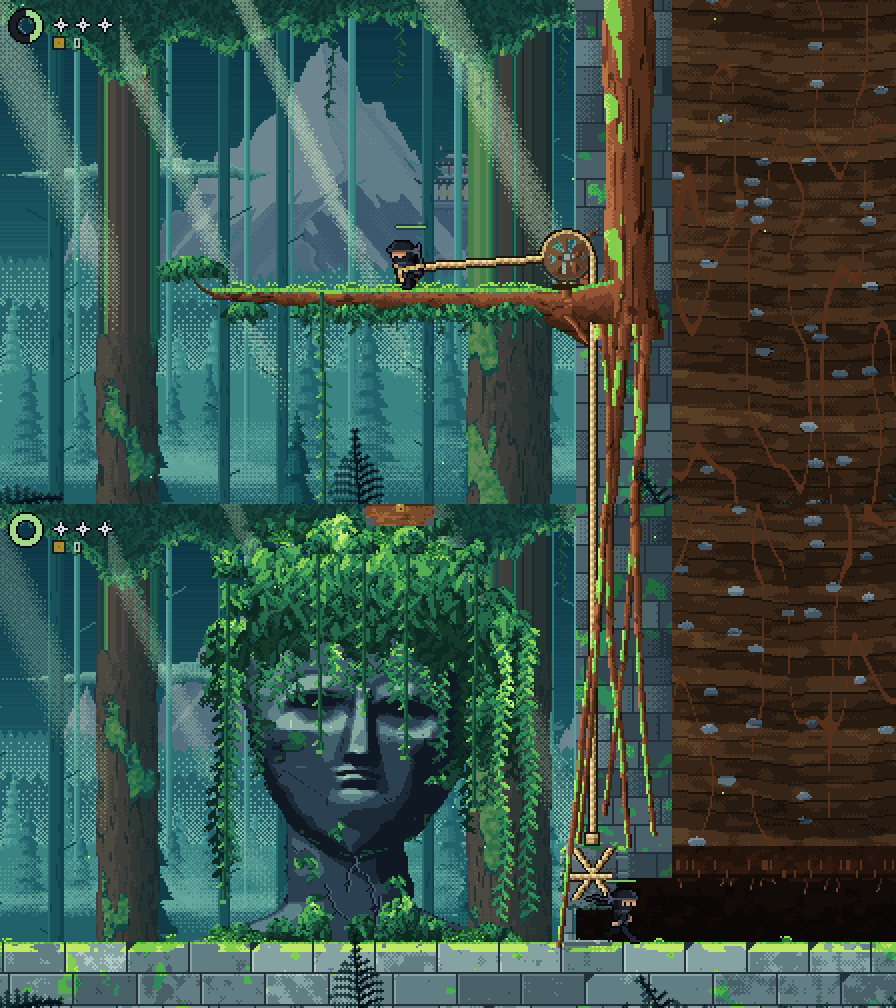
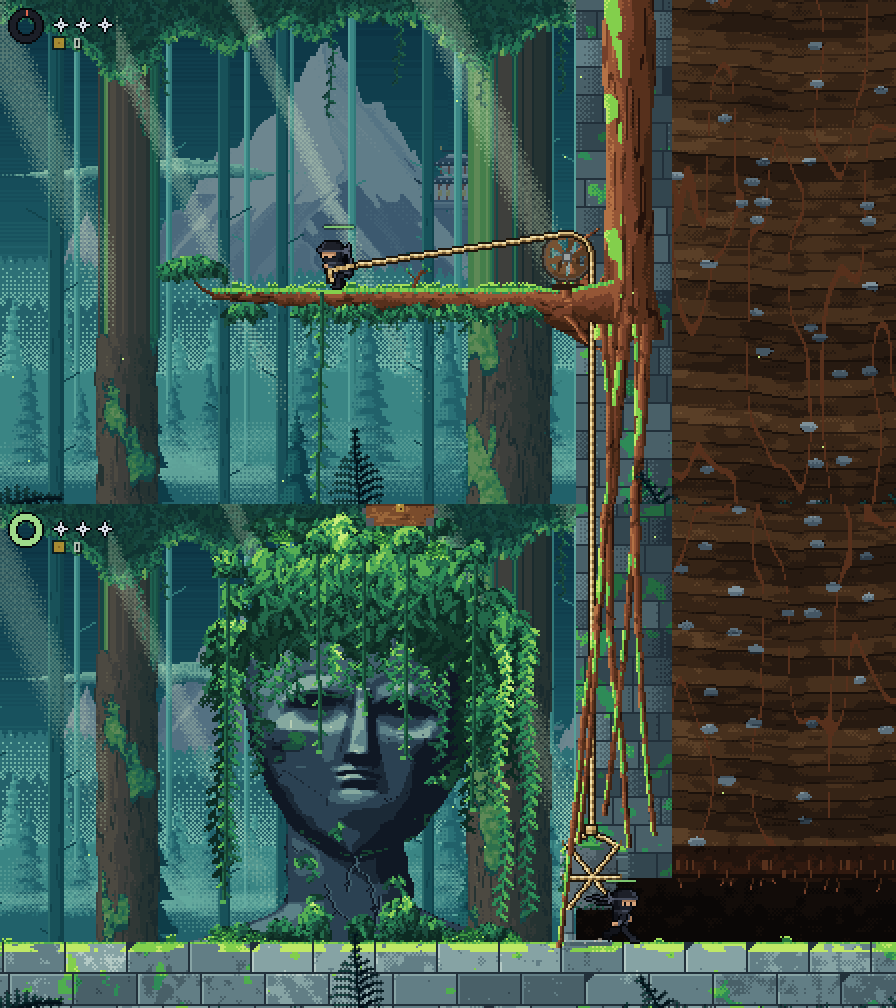
Statue : corde tangente à la poulie, bloc ceinturé, épaisseur intermédiaire
- la corde épouse la gorge de la poulie et la quitte au point de tangence,
  tendue en ligne droite jusqu'à l'épaule de KAGE (ou jusqu'à la branche)
- le bloc est ceinturé : croix et sangle qui débordent de ses arêtes, deux
  brins des coins du haut jusqu'au nœud, corde à l'aplomb de la roue
- corde de 2 px cernée (4 px en tout), entre les deux premières versions

Claude-Session: https://claude.ai/code/session_01A2iwx5ikARHMwBkhmiw1Tw

diff --git a/docs/carte-mentale/index.html b/docs/carte-mentale/index.html
@@ -327,7 +327,7 @@ const BRANCHES = [
     files: ['docs/MONDE.md'], links: [['Carte du monde', 'docs/monde/carte_du_monde.png']] },
   { id: 'monde-ch1', t: '1 · Le Potager', s: 'fait', d: 'Jouable et entièrement peint',
     txt: "Jour, champs, paille, montagnes au loin. 9 zones, 9 lanternes, le marchand, puis le mini-boss KARASU-KASHI et la porte du temple. Voir la branche « Chapitre 1 ».", files: ['src/game/chapters/potager.js'], see: ['pot-z01'] },
-  { id: 'monde-ch2', t: '2 · La Forêt', s: 'encours', d: 'Première version complète : 12 zones, peintes, sonorisées ; retouches en cours', txt: "Brief de Raph (10 novembre 2026) : une forêt dense et mystérieuse en 12 zones, plus longue et plus riche que le Potager, sans ennemis pour l'instant. De la lisière ensoleillée à la lisière crépusculaire : fougères et racines géantes (saut mural), eaux miroirs (dash), piliers qui s'effondrent (sprint), ascension dans les pins, torrent et troncs flottants, canopée, souterrain bioluminescent, la statue oubliée, une tête de femme penchée vers le sol, le regard baissé dans l'ombre de ses arcades (un gros bloc de pierre ficelé d'une corde en croix ferme le tunnel ; on grimpe aux lianes de sa chevelure — leur départ caché dans le feuillage — jusqu'à sa tête, d'où seulement on attrape une liane qui mène à une grande branche, sortie d'un arbre agrippé au pilier ; au bout, une énorme poulie : on saisit la corde (↑, ou le bouton de saut sur téléphone), on la tire le long de la branche — KAGE peine, arc-bouté (animation rope_pull), lentement et par saccades, il souffle par moments, l'image tremble un peu sous l'effort, et chaque seconde de tirage lui coûte un quart de son énergie : à bout de souffle, il tient la corde sans pouvoir tirer et reprend haleine — et le saut la lâche ; tirée au-delà d'un rameau, elle s'y emmêle au retour et le bloc reste levé d'une case : on passe en glissade ; lâchée trop tôt, le bloc retombe ; la corde, en chanvre clair torsadé, épaisse et cernée de sombre, ressort sur l'écorce et la pierre ; elle clignote comme un coffre, des chevrons dorés montrent où tirer ; sauvegardé), lianes balancier, descente devant un éboulis. Plan complet : docs/FORET.md. Retouches de Raph (novembre 2026) : un grand pont suspendu moussu dans la canopée (planches qui ploient, oscillent, et dont certaines lâchent ; deux cordes de chaque côté), de l'eau au sol entre les lianes (chaque arbre de la canopée est posé à la main, les pieds sur la terre : les îlots suivent les arbres, et rien ne pousse au-dessus de l'eau ; les deux grandes eaux font 14 cases, plus que sprint + saut + dash ; les planches tombées ne reviennent pas ; planches de 18 px séparées de 6 px : on marche sur les jours, mais le trou d'une planche tombée (30 px) ne se passe qu'en sautant ; la grande branche de l'arbre du nid rompt sous KAGE et revient à la réapparition ; le coffre du nid est sur une branche à droite du tronc), une eau profonde dont on ne voit jamais le fond, une gorge peinte sous l'allée des piliers (falaise contrastée et végétalisée, sans trame), des galeries de terre sous une butte à souches dans l'ascension (zone 5 : un coffre, un fossé mortel, un avant-goût du souterrain), et le torrent (zone 6) plus long (quatre bras) aux rondins tous différents — 3 à 5 cases, 10 à 16 px de diamètre, ombrés en cylindre, écorce fendue, nœuds, moignons de branches cassées, un bout scié (ses cernes) et l'autre cassé, mousse par plaques —, des rochers pointus battus d'écume dans le lit, des embruns, des brindilles emportées (on ne s'y pose pas), la caverne aux perles (zone 8) refaite plus profonde et deux fois plus longue (racines de chêne, arbres à perles lumineuses, papillons, clairière au grand arbre et son oasis souterraine, sortie en bouche de caverne) ; sous terre, plus de « fonds de creux » peints case par case : ces carrés presque noirs ressortaient en rectangles dans le halo de KAGE (world.js, niche). Des détours pour l'aventure (12 novembre 2026, demande de Raph) : la cabane du guetteur dans un vieux chêne (zone 1), l'arbre aux cavités et ses creux dans l'écorce (zone 2 ; branches de plus en plus longues vers le haut, avec leurs exceptions — une grande branche basse de 15 cases qui rattrape toute chute, même en sprint ; un nœud creux traverse le tronc vers deux branches au-dessus de la racine géante ; branches effilées, rameaux et touffes : oldBough), l'arche de racines qui porte un arbre sacré et un petit sanctuaire au-dessus du sentier (zone 3 ; la motte repose sur six racines-piliers évasées au sol, qui s'affinent en montant et l'enserrent par les flancs), le belvédère au sommet du grand cèdre du couchant (zone 12) : chacun son coffre, et on en redescend toujours sans dégâts. 32 tests de faisabilité (tests/foret.cjs, dans npm test) : chaque passage se franchit et la mécanique voulue est nécessaire (sans dash, on tombe à l'eau ou on manque la corniche ; sans sprint, le pont emporte KAGE ; immobile, l'éboulis le rattrape). On y entre en passant la porte du temple : fondu au noir, la carte « Fin de l'initiation — Chapitre 2 — La Forêt — Le voyage commence », puis la carte s'efface sur la lisière ; la partie continue (ryō, skins, corbeau vaincu suivent KAGE ; « Continuer » reprend dans le bon chapitre). On l'aperçoit déjà par la porte du temple, à la fin du Potager.", files: ['docs/FORET.md', 'docs/MONDE.md', 'src/game/chapters/foret.js', 'src/game/foret/mechanics.js', 'src/game/foret/index.js', 'src/game/foret/backdrop.js', 'src/game/foret/world.js', 'src/game/foret/props.js', 'src/game/foret/live.js', 'assets/music/foret.mp3', 'tests/foret.cjs', 'tests/foret_pilotes.js', 'src/game/foret/palette.js', 'src/game/foret/layers.js', 'src/game/foret/statue.js', 'tools/foret_planche.mjs', 'src/game/potager/temple.js'], links: [['Les 12 zones peintes', 'docs/foret/apercu_zones.png'], ['Les détours', 'docs/foret/detours.png'], ['La carte du chapitre', 'docs/foret/carte_chapitre.png'], ['Planche d\'ambiance', 'docs/foret/planche_ambiance.png'], ['Planche de la statue', 'docs/foret/planche_statue.png'], ['KAGE sur une liane', 'docs/foret/planche_kage_liane.png']], see: ['pot-porte'] },
+  { id: 'monde-ch2', t: '2 · La Forêt', s: 'encours', d: 'Première version complète : 12 zones, peintes, sonorisées ; retouches en cours', txt: "Brief de Raph (10 novembre 2026) : une forêt dense et mystérieuse en 12 zones, plus longue et plus riche que le Potager, sans ennemis pour l'instant. De la lisière ensoleillée à la lisière crépusculaire : fougères et racines géantes (saut mural), eaux miroirs (dash), piliers qui s'effondrent (sprint), ascension dans les pins, torrent et troncs flottants, canopée, souterrain bioluminescent, la statue oubliée, une tête de femme penchée vers le sol, le regard baissé dans l'ombre de ses arcades (un gros bloc de pierre ficelé d'une corde en croix ferme le tunnel ; on grimpe aux lianes de sa chevelure — leur départ caché dans le feuillage — jusqu'à sa tête, d'où seulement on attrape une liane qui mène à une grande branche, sortie d'un arbre agrippé au pilier ; au bout, une énorme poulie : on saisit la corde (↑, ou le bouton de saut sur téléphone), on la tire le long de la branche — KAGE peine, arc-bouté (animation rope_pull), lentement et par saccades, il souffle par moments, l'image tremble un peu sous l'effort, et chaque seconde de tirage lui coûte un quart de son énergie : à bout de souffle, il tient la corde sans pouvoir tirer et reprend haleine — et le saut la lâche ; tirée au-delà d'un rameau, elle s'y emmêle au retour et le bloc reste levé d'une case : on passe en glissade ; lâchée trop tôt, le bloc retombe ; la corde, en chanvre clair torsadé, épaisse et cernée de sombre, ressort sur l'écorce et la pierre ; elle épouse la gorge de la poulie et la quitte au point de tangence, tendue en ligne droite jusqu'à l'épaule de KAGE ; sur le bloc, une croix et une sangle qui débordent de ses arêtes, et deux brins des coins du haut jusqu'au nœud ; elle clignote comme un coffre, des chevrons dorés montrent où tirer ; sauvegardé), lianes balancier, descente devant un éboulis. Plan complet : docs/FORET.md. Retouches de Raph (novembre 2026) : un grand pont suspendu moussu dans la canopée (planches qui ploient, oscillent, et dont certaines lâchent ; deux cordes de chaque côté), de l'eau au sol entre les lianes (chaque arbre de la canopée est posé à la main, les pieds sur la terre : les îlots suivent les arbres, et rien ne pousse au-dessus de l'eau ; les deux grandes eaux font 14 cases, plus que sprint + saut + dash ; les planches tombées ne reviennent pas ; planches de 18 px séparées de 6 px : on marche sur les jours, mais le trou d'une planche tombée (30 px) ne se passe qu'en sautant ; la grande branche de l'arbre du nid rompt sous KAGE et revient à la réapparition ; le coffre du nid est sur une branche à droite du tronc), une eau profonde dont on ne voit jamais le fond, une gorge peinte sous l'allée des piliers (falaise contrastée et végétalisée, sans trame), des galeries de terre sous une butte à souches dans l'ascension (zone 5 : un coffre, un fossé mortel, un avant-goût du souterrain), et le torrent (zone 6) plus long (quatre bras) aux rondins tous différents — 3 à 5 cases, 10 à 16 px de diamètre, ombrés en cylindre, écorce fendue, nœuds, moignons de branches cassées, un bout scié (ses cernes) et l'autre cassé, mousse par plaques —, des rochers pointus battus d'écume dans le lit, des embruns, des brindilles emportées (on ne s'y pose pas), la caverne aux perles (zone 8) refaite plus profonde et deux fois plus longue (racines de chêne, arbres à perles lumineuses, papillons, clairière au grand arbre et son oasis souterraine, sortie en bouche de caverne) ; sous terre, plus de « fonds de creux » peints case par case : ces carrés presque noirs ressortaient en rectangles dans le halo de KAGE (world.js, niche). Des détours pour l'aventure (12 novembre 2026, demande de Raph) : la cabane du guetteur dans un vieux chêne (zone 1), l'arbre aux cavités et ses creux dans l'écorce (zone 2 ; branches de plus en plus longues vers le haut, avec leurs exceptions — une grande branche basse de 15 cases qui rattrape toute chute, même en sprint ; un nœud creux traverse le tronc vers deux branches au-dessus de la racine géante ; branches effilées, rameaux et touffes : oldBough), l'arche de racines qui porte un arbre sacré et un petit sanctuaire au-dessus du sentier (zone 3 ; la motte repose sur six racines-piliers évasées au sol, qui s'affinent en montant et l'enserrent par les flancs), le belvédère au sommet du grand cèdre du couchant (zone 12) : chacun son coffre, et on en redescend toujours sans dégâts. 32 tests de faisabilité (tests/foret.cjs, dans npm test) : chaque passage se franchit et la mécanique voulue est nécessaire (sans dash, on tombe à l'eau ou on manque la corniche ; sans sprint, le pont emporte KAGE ; immobile, l'éboulis le rattrape). On y entre en passant la porte du temple : fondu au noir, la carte « Fin de l'initiation — Chapitre 2 — La Forêt — Le voyage commence », puis la carte s'efface sur la lisière ; la partie continue (ryō, skins, corbeau vaincu suivent KAGE ; « Continuer » reprend dans le bon chapitre). On l'aperçoit déjà par la porte du temple, à la fin du Potager.", files: ['docs/FORET.md', 'docs/MONDE.md', 'src/game/chapters/foret.js', 'src/game/foret/mechanics.js', 'src/game/foret/index.js', 'src/game/foret/backdrop.js', 'src/game/foret/world.js', 'src/game/foret/props.js', 'src/game/foret/live.js', 'assets/music/foret.mp3', 'tests/foret.cjs', 'tests/foret_pilotes.js', 'src/game/foret/palette.js', 'src/game/foret/layers.js', 'src/game/foret/statue.js', 'tools/foret_planche.mjs', 'src/game/potager/temple.js'], links: [['Les 12 zones peintes', 'docs/foret/apercu_zones.png'], ['Les détours', 'docs/foret/detours.png'], ['La carte du chapitre', 'docs/foret/carte_chapitre.png'], ['Planche d\'ambiance', 'docs/foret/planche_ambiance.png'], ['Planche de la statue', 'docs/foret/planche_statue.png'], ['KAGE sur une liane', 'docs/foret/planche_kage_liane.png']], see: ['pot-porte'] },
   { id: 'monde-ch3', t: '3 · La forêt des grands arbres', s: 'afaire', d: 'Troncs immenses, brume', txt: "Ennemi pressenti : Kage-mane. Marchand dans une clairière.", see: ['ennemi-kagemane'] },
   { id: 'monde-ch4', t: '4 · Le village des basses montagnes', s: 'afaire', d: 'Toits, lanternes, marché', txt: "Ennemi pressenti : Chōchin. Marchand au marché.", see: ['ennemi-chochin'] },
   { id: 'monde-ch5', t: '5 · Les hautes montagnes', s: 'afaire', d: 'Vent, neige, glace, ascension', txt: "Ennemi pressenti : un corbeau messager. Marchand dans un refuge.", see: ['ennemi-messager'] },

diff --git a/src/game/foret/live.js b/src/game/foret/live.js
@@ -217,7 +217,7 @@ function foreStrip(mood) {
 const ROPE_COL = ['#1c140b', '#6e5430', '#b8955a', '#dcc184', '#f3e3b0'];
 
 /**
- * Trace des brins de corde épais (3 px) et torsadés : d'abord tous les contours, puis les corps,
+ * Trace des brins de corde épais (2 px, cernés : 4 px en tout) et torsadés : d'abord tous les contours, puis les corps,
  * pour qu'un brin qui en touche un autre ne le coupe pas. Les torons sont des rayures en biais qui
  * défilent avec la corde (shift).
  */
@@ -230,12 +230,12 @@ function drawRopeStrands(ctx, strands, cam, vw, vh, shift) {
       if (x < -6 || x > vw + 6 || y < -6 || y > vh + 6) continue;
       if (pass === 0) {
         ctx.fillStyle = ROPE_COL[0];
-        if (flat) ctx.fillRect(x, y - 1, 1, 5); else ctx.fillRect(x - 1, y, 5, 1);
+        if (flat) ctx.fillRect(x, y - 1, 1, 4); else ctx.fillRect(x - 1, y, 4, 1);
         continue;
       }
-      for (let k = 0; k < 3; k++) {
+      for (let k = 0; k < 2; k++) {
         const t = ((i + k + shift) % 4 + 4) % 4;     // la torsade : rayures en biais
-        const c = k === 2 ? (t === 0 ? ROPE_COL[2] : ROPE_COL[1]) : k === 0 ? (t < 2 ? ROPE_COL[4] : ROPE_COL[3]) : (t === 1 || t === 2 ? ROPE_COL[3] : ROPE_COL[2]);
+        const c = k === 0 ? (t < 2 ? ROPE_COL[4] : ROPE_COL[3]) : (t === 1 || t === 2 ? ROPE_COL[2] : ROPE_COL[1]);
         ctx.fillStyle = c;
         if (flat) ctx.fillRect(x, y + k, 1, 1); else ctx.fillRect(x + k, y, 1, 1);
       }
@@ -906,10 +906,10 @@ export class ForetLive {
    * chevrons clignotent vers la gauche (« tirez par là »). Coincée, elle s'enroule sur le rameau.
    */
   drawRopeWorks(ctx, r, cam, vw, vh, time) {
-    const X = r.door * TILE, G = r.ground, cx = r.pulleyX, cy = r.branchY - 16, RAD = 13;
+    const X = r.door * TILE, G = r.ground, cx = r.pulleyX, cy = r.branchY - 16, RAD = 13, RR = RAD - 1;
     const ROPE = ROPE_COL;
     const P = this.level.player;
-    // la corde : chanvre clair et torsadé, trois pixels d'épaisseur cernés de sombre (elle ressort sur
+    // la corde : chanvre clair et torsadé, deux pixels d'épaisseur cernés de sombre (elle ressort sur
     // l'écorce et la pierre) ; chaque brin est mis de côté puis tracé en deux passes (contour, puis corps)
     const strands = [];
     const rope = (x0, y0, x1, y1) => strands.push([x0, y0, x1, y1]);
@@ -937,18 +937,24 @@ export class ForetLive {
     if (this.vis(bx - 4, by - 4, bw + 8, bh + 8, cam, vw, vh)) {
       const jit = r.state === 'held' && r.lift > 0 && r.lift < 30 ? R(Math.sin(time * 40) * 0.5) : 0;
       ctx.drawImage(this.block, R(bx - cam.x) + jit, R(by - cam.y));
-      // la corde en croix sur sa face, et le nœud en haut
-      rope(bx + 3, by + 3, bx + bw - 5, by + bh - 6); rope(bx + bw - 5, by + 3, bx + 3, by + bh - 6); rope(bx + 1, by + bh / 2 - 1, bx + bw - 4, by + bh / 2 - 1);
-      // la corde qui monte du bloc à la poulie (tangente au côté droit de la roue), puis le nœud par-dessus
-      rope(X + 7, by - 3, cx + RAD - 1, cy);
+      // la corde ceinture le bloc : une croix d'un coin à l'autre et une sangle au milieu, qui débordent
+      // de ses arêtes (elles passent derrière) ; deux brins remontent des coins du haut jusqu'au nœud
+      const b0 = bx + jit, b1 = bx + jit + bw - 1, ym = by + R(bh / 2), kxc = cx + RR, kyc = by - 6;
+      rope(b0, by + 1, b1, by + bh - 1); rope(b1, by + 1, b0, by + bh - 1); rope(b0 - 1, ym, b1 + 1, ym);
+      rope(kxc, kyc, b0 + 1, by); rope(kxc, kyc, b1 - 1, by);
+      // la corde qui monte du nœud à la poulie (elle tombe à l'aplomb du côté droit de la roue)
+      rope(kxc, kyc, kxc, cy);
       flush();
-      const kx = R(X + 4 - cam.x), ky = R(by - 5 - cam.y);
-      ctx.fillStyle = ROPE[0]; ctx.fillRect(kx, ky, 8, 7);
-      ctx.fillStyle = ROPE[2]; ctx.fillRect(kx + 1, ky + 1, 6, 5);
-      ctx.fillStyle = ROPE[3]; ctx.fillRect(kx + 1, ky + 1, 4, 2); ctx.fillRect(kx + 2, ky + 4, 3, 1);
-      ctx.fillStyle = ROPE[4]; ctx.fillRect(kx + 2, ky + 1, 2, 1);
-      ctx.fillStyle = ROPE[1]; ctx.fillRect(kx + 5, ky + 3, 2, 3);
-    } else rope(X + 7, by - 3, cx + RAD - 1, cy);
+      // là où la corde passe derrière le bloc : un brin d'ombre qui contourne l'arête
+      ctx.fillStyle = ROPE[1];
+      for (const [qx, qy] of [[b0 - 2, by], [b1 + 2, by], [b0 - 2, by + bh - 2], [b1 + 2, by + bh - 2], [b0 - 2, ym], [b1 + 2, ym]]) ctx.fillRect(R(qx - cam.x), R(qy - cam.y) - 1, 1, 3);
+      const kx = R(kxc - 4 - cam.x), ky = R(kyc - 3 - cam.y);
+      ctx.fillStyle = ROPE[0]; ctx.fillRect(kx + 1, ky, 7, 6);
+      ctx.fillStyle = ROPE[2]; ctx.fillRect(kx + 2, ky + 1, 5, 4);
+      ctx.fillStyle = ROPE[3]; ctx.fillRect(kx + 2, ky + 1, 3, 2); ctx.fillRect(kx + 3, ky + 4, 2, 1);
+      ctx.fillStyle = ROPE[4]; ctx.fillRect(kx + 3, ky + 1, 1, 1);
+      ctx.fillStyle = ROPE[1]; ctx.fillRect(kx + 5, ky + 3, 2, 2);
+    } else rope(cx + RR, by - 6, cx + RR, cy);
     // la poulie : le chevalet sur la branche, la roue qui tourne avec la corde
     if (this.vis(cx - 24, cy - 24, 48, 48, cam, vw, vh)) {
       const WOOD = ['#2a1a10', '#3f2a1a', '#5a3d25', '#765233', '#946a43'];
@@ -969,25 +975,28 @@ export class ForetLive {
         }
         if (c) { ctx.fillStyle = c; ctx.fillRect(sx + x, sy + y, 1, 1); }
       }
-      // la corde passe dans la gorge, par-dessus
-      for (let a = 0; a <= Math.PI; a += 0.05) {
-        const ox = Math.cos(a), oy = -Math.sin(a);
-        for (let k = 0; k < 3; k++) {
-          ctx.fillStyle = k === 2 ? ROPE[0] : ((R(a * RAD) + k + R(r.pull)) >> 1) % 2 ? ROPE[3] : ROPE[2];
-          ctx.fillRect(R(sx + ox * (RAD - 1 + k * 0.9)), R(sy + oy * (RAD - 1 + k * 0.9)), 1, 1);
-        }
-      }
     }
-    // l'autre brin : de la poulie au bout de la corde (sur la branche), ou jusqu'à KAGE
-    const lx = cx - RAD, held = r.state === 'held' && P?.state === 'rope_pull';
+    // l'autre brin. La corde épouse la gorge de la roue depuis son côté droit, passe par-dessus, et la
+    // quitte au point de tangence vers sa cible (l'épaule de KAGE, ou la branche où elle repose) : de là,
+    // une ligne droite, bien tendue, sans angle. φ : angle sur la roue, 0 à droite, π/2 en haut, π à gauche.
+    const held = r.state === 'held' && P?.state === 'rope_pull';
+    const wrapTo = (tx, ty) => {
+      const dx = tx - cx, dy = cy - ty, d = Math.max(RR + 0.5, Math.hypot(dx, dy));
+      const th = (Math.atan2(dy, dx) + Math.PI * 2) % (Math.PI * 2);
+      const ft = Math.max(0.05, th - Math.acos(RR / d));          // la tangente du côté où la corde s'enroule
+      let px = cx + RR, py = cy;
+      for (let f = 0; f < ft;) { f = Math.min(ft, f + 1.4 / RR); const nx = cx + RR * Math.cos(f), ny = cy - RR * Math.sin(f); rope(px, py, nx, ny); px = nx; py = ny; }
+      rope(px, py, tx, ty);
+    };
     if (held) {
       const sh = this.ropePoint(P, 'shoulder');
-      rope(lx, cy, sh.x, sh.y);
+      wrapTo(sh.x, sh.y);
       flush();
     } else {
       const endX = r.state === 'caught' ? r.twig + 3 : r.end - r.pull;
-      rope(lx, cy, lx - 6, r.branchY - 2);
-      rope(lx - 6, r.branchY - 3, endX, r.branchY - 3);
+      const touch = Math.max(endX, cx - RAD - 10);                // là où elle se pose sur la branche
+      wrapTo(touch, r.branchY - 2);
+      if (endX < touch) rope(touch, r.branchY - 2, endX, r.branchY - 2);
       flush();
       if (r.state === 'caught') {
         // emmêlée dans le rameau : deux tours, et le bout qui pend

diff --git a/docs/FORET.md b/docs/FORET.md
@@ -176,7 +176,7 @@ Planches : `docs/foret/arbre_cavites.png`, `docs/foret/arche_racines_avant_apres
 - **zone 7, le pont** : planches de 18 px espacées de 6 (`FOREST.bridge.plankW`, `plankGap`) ; une planche cassée ne se franchit plus en sprint, il faut sauter (test dédié) ;
 - **zone 8, le souterrain** : plus de rectangles noirs derrière les décors au passage de KAGE (les « niches » sombres ne sont plus peintes sous la pénombre du souterrain : `niche()` dans `world.js`) ;
 - **zone 6, le torrent** : quatre bras (12, 16, 18, 20 cases), rochers entre eux (`river_rock`, décor où l'on ne se pose pas) ; troncs plus longs, de diamètres variés, peints en vrais cylindres (`logArt` : modelé, fissures, nœuds, bout scié aux cernes ou bout cassé, chicots de branches, mousse éparse, champignons), flottant plus haut ; écume, sillages, embruns, débris qui dérivent ;
-- **zone 9, la statue** : le visage n'est pas touché ; le départ des lianes de sa chevelure est caché dans le feuillage (touffes à leur sommet). **Nouveau mécanisme**, une grue du chapitre 1 inversée : un gros **bloc de granit ficelé d'une corde en croix** ferme le tunnel ; la corde monte, hors de l'image, jusqu'à une **énorme poulie** au bout d'une **grande branche**, sortie d'un arbre agrippé au pilier (`rope_branch` dans `props.js`, `drawRopeWorks` dans `live.js`). La branche ne s'atteint que par une liane qu'on n'attrape que **depuis le haut de la tête** de la statue. Au bout de la branche, la corde brille et des chevrons dorés clignotent (comme un coffre) ; **↑** (au clavier) ou **le bouton de saut** (sur téléphone) la saisit ; KAGE recule le long de la branche en tirant, lentement, arc-bouté (**nouvelle animation `rope_pull`**, `tools/kage_forge/rope.py`), la corde grince ; **saut** la lâche. Tirée au-delà d'un **rameau**, la corde y reste emmêlée au retour : le bloc reste levé d'une case, juste assez pour passer **en glissade** ; lâchée trop tôt, le bloc retombe (secousse, poussière). On redescend par la liane, la tête et le sol. Sauvegardé (`save.statue`). Retouche (13 novembre 2026) : tirage 20 % plus lent (19,2 px/s en moyenne) et par saccades (une par pas, `surge`), KAGE souffle par moments (le souffle du coup de pied ; il halète à bout de souffle), petite secousse de l'image de temps en temps (`ropeHeave`), et le tirage coûte 0,25 d'énergie par seconde (`FOREST.rope.energy`) : à bout de souffle, KAGE tient la corde sans tirer jusqu'à reprendre haleine. Les deux lianes extérieures de la chevelure partent 5 px plus bas. Puis la corde, plus visible : chanvre clair torsadé de 3 px cerné d'un contour sombre (`drawRopeStrands`, `ROPE_COL` dans `live.js`), nœud, bout effiloché et boucles du rameau redessinés à la même échelle. Constantes `FOREST.rope` ; méthodes `tryRope`, `haulRope`, `releaseRope`, `catchRope`, `updateRope` (`mechanics.js`). Trois tests remplacent les anciens (32 tests de la Forêt).
+- **zone 9, la statue** : le visage n'est pas touché ; le départ des lianes de sa chevelure est caché dans le feuillage (touffes à leur sommet). **Nouveau mécanisme**, une grue du chapitre 1 inversée : un gros **bloc de granit ficelé d'une corde en croix** ferme le tunnel ; la corde monte, hors de l'image, jusqu'à une **énorme poulie** au bout d'une **grande branche**, sortie d'un arbre agrippé au pilier (`rope_branch` dans `props.js`, `drawRopeWorks` dans `live.js`). La branche ne s'atteint que par une liane qu'on n'attrape que **depuis le haut de la tête** de la statue. Au bout de la branche, la corde brille et des chevrons dorés clignotent (comme un coffre) ; **↑** (au clavier) ou **le bouton de saut** (sur téléphone) la saisit ; KAGE recule le long de la branche en tirant, lentement, arc-bouté (**nouvelle animation `rope_pull`**, `tools/kage_forge/rope.py`), la corde grince ; **saut** la lâche. Tirée au-delà d'un **rameau**, la corde y reste emmêlée au retour : le bloc reste levé d'une case, juste assez pour passer **en glissade** ; lâchée trop tôt, le bloc retombe (secousse, poussière). On redescend par la liane, la tête et le sol. Sauvegardé (`save.statue`). Retouche (13 novembre 2026) : tirage 20 % plus lent (19,2 px/s en moyenne) et par saccades (une par pas, `surge`), KAGE souffle par moments (le souffle du coup de pied ; il halète à bout de souffle), petite secousse de l'image de temps en temps (`ropeHeave`), et le tirage coûte 0,25 d'énergie par seconde (`FOREST.rope.energy`) : à bout de souffle, KAGE tient la corde sans tirer jusqu'à reprendre haleine. Les deux lianes extérieures de la chevelure partent 5 px plus bas. Puis la corde, plus visible : chanvre clair torsadé de 2 px cerné d'un contour sombre (4 px en tout) (`drawRopeStrands`, `ROPE_COL` dans `live.js`), nœud, bout effiloché et boucles du rameau redessinés à la même échelle. La corde suit la physique : elle épouse la gorge de la poulie depuis son côté droit, passe par-dessus et la quitte au point de tangence vers l'épaule de KAGE (ou vers la branche où elle repose), en ligne droite tendue, sans angle (`wrapTo`). Le bloc est vraiment ceinturé : croix d'un coin à l'autre et sangle au milieu qui débordent de ses arêtes (un brin d'ombre là où elles passent derrière), deux brins des coins du haut jusqu'au nœud, d'où la corde monte à l'aplomb de la roue. Constantes `FOREST.rope` ; méthodes `tryRope`, `haulRope`, `releaseRope`, `catchRope`, `updateRope` (`mechanics.js`). Trois tests remplacent les anciens (32 tests de la Forêt).
 
 ## 9. Reste à faire
 
